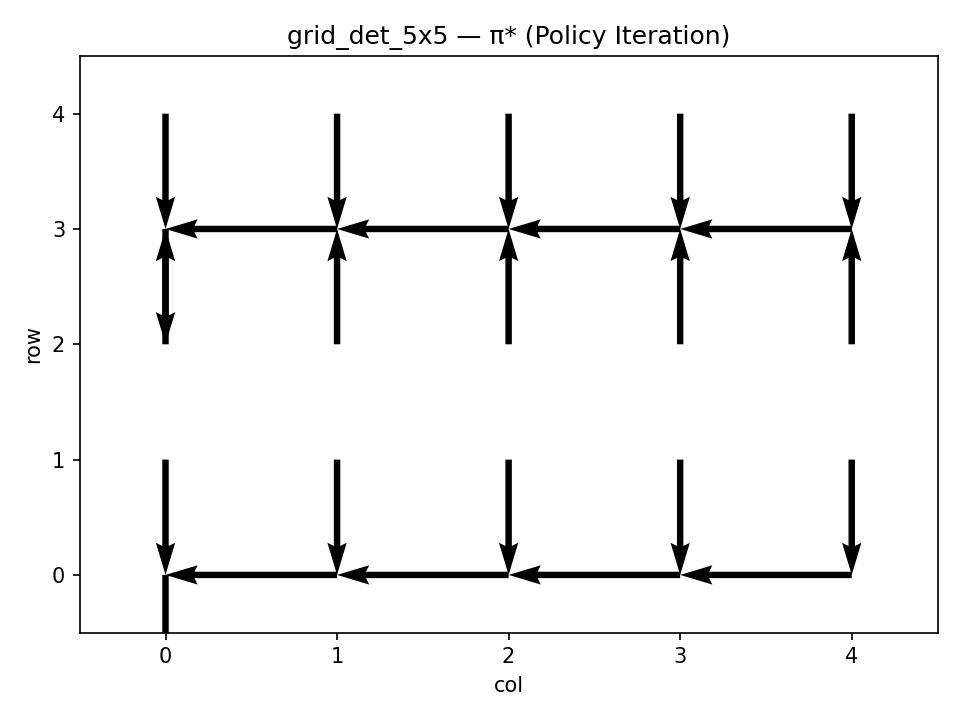
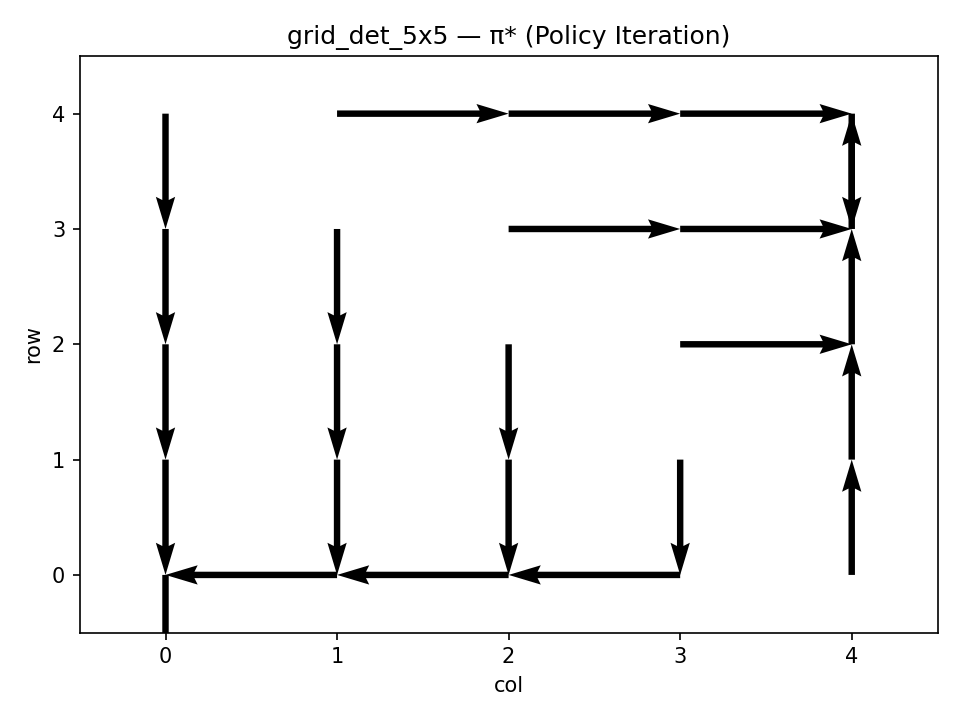
exp: 5x5 GridWorld with gamma=0.95 — PI eval sweeps rise (det: 111,3,4; sto: 111,18); VI ~4/19 sweeps

diff --git a/lab2/experiments/run_gridworld.py b/lab2/experiments/run_gridworld.py
@@ -45,17 +45,17 @@ def main():
 
     # Deterministic 5x5
     spec_det = GridSpec(
-        size=5, terminals=(0, 15), obstacles=(), step_reward=-1.0,
+        size=5, terminals=(0, 24), obstacles=(), step_reward=-1.0,
         goal_reward=0.0, intended_prob=1.0, stochastic=False
     )
-    run_case(spec_det, tag="grid_det_5x5", gamma=0.9, theta=1e-6)
+    run_case(spec_det, tag="grid_det_5x5", gamma=0.95, theta=1e-6)
 
-    # Stochastic 5x5 (80% intended, 10% perpendicular each)
+    # Stochastic 5x5 (70% intended, 15% perpendicular each)
     spec_sto = GridSpec(
         size=5, terminals=(0, 24), obstacles=(), step_reward=-1.0,
         goal_reward=0.0, intended_prob=0.7, stochastic=True
     )
-    run_case(spec_sto, tag="grid_sto_5x5", gamma=0.9, theta=1e-6)
+    run_case(spec_sto, tag="grid_sto_5x5", gamma=0.95, theta=1e-6)
 
 
 if __name__ == "__main__":
